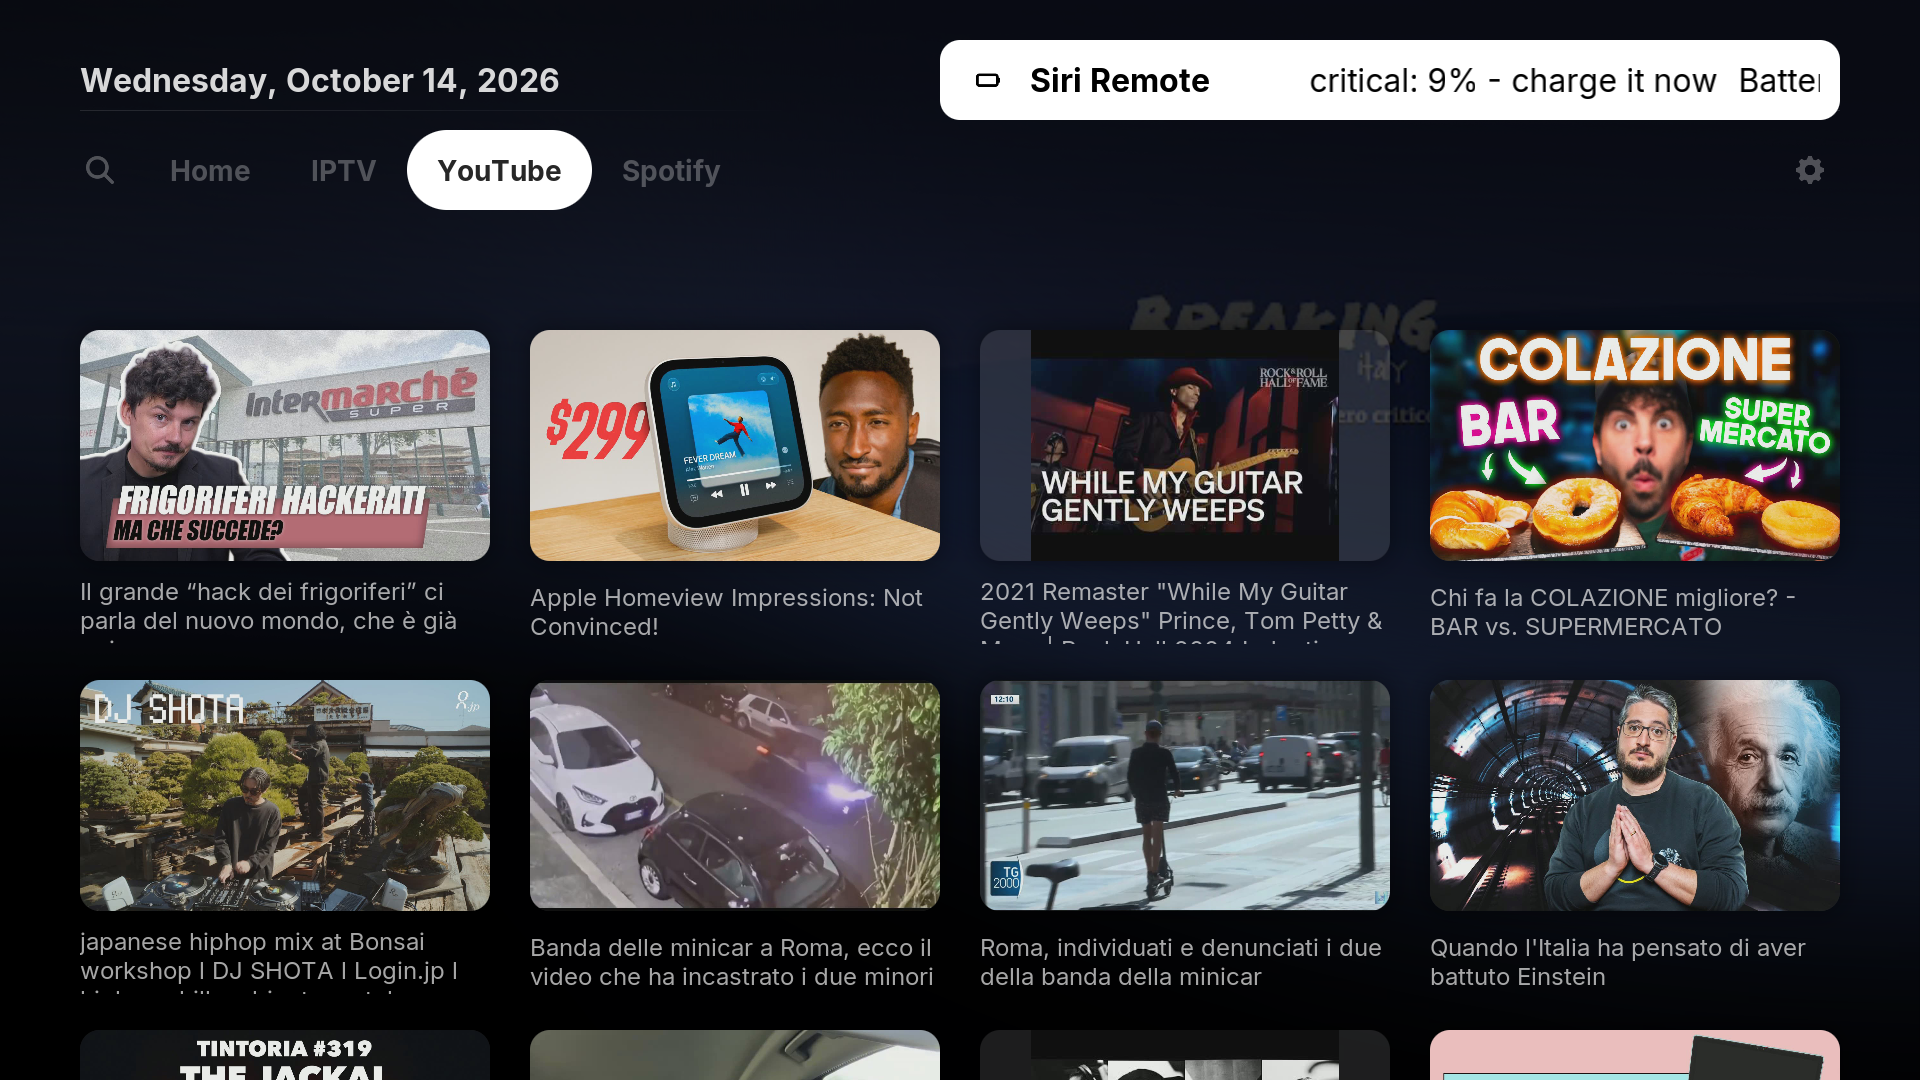
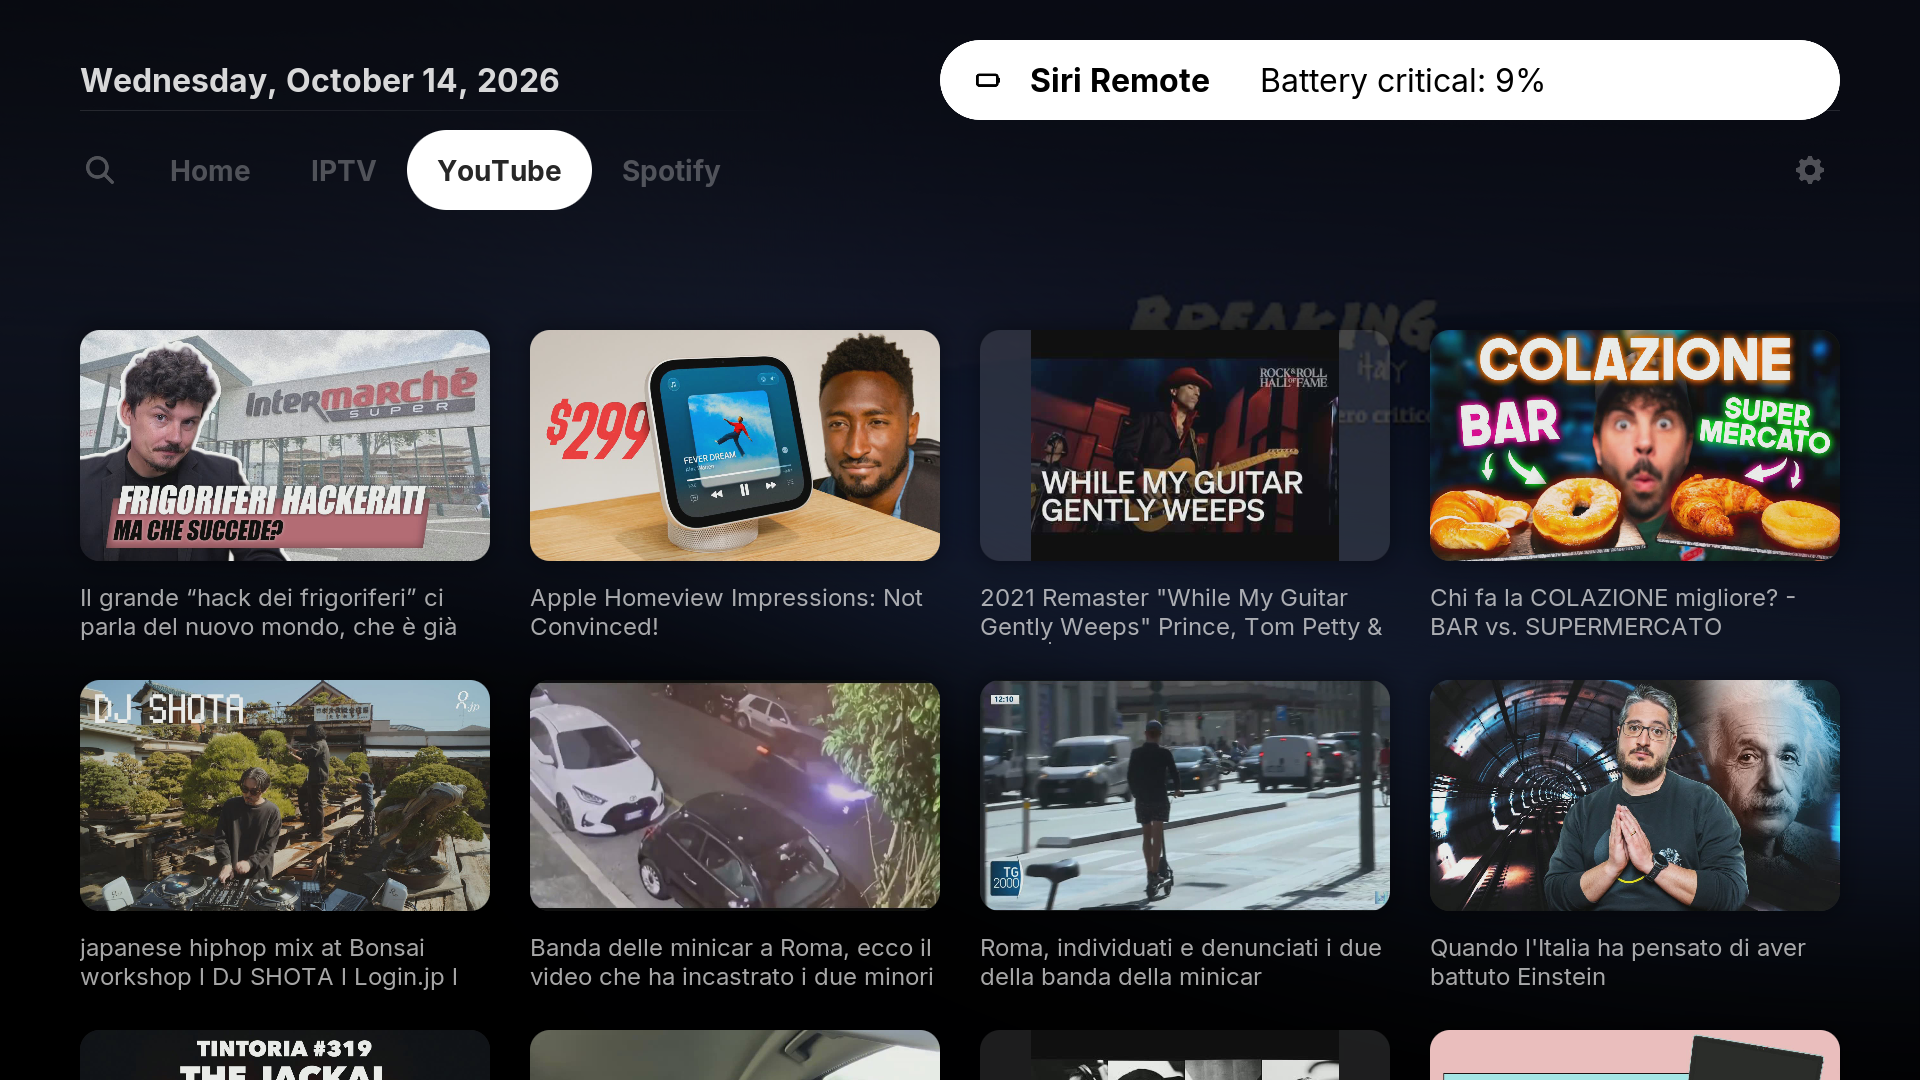
Toast: fully rounded pill; bridge: no battery warnings while the remote is charging (rising level)

diff --git a/scr/kodi_siri_bridge.py b/scr/kodi_siri_bridge.py
@@ -108,6 +108,7 @@ BATTERY_DEV = _find_device_path()
 BATTERY_INTERVAL = 120
 BATTERY_LOW = 20
 BATTERY_CRITICAL = 10
+CHARGING_HOLD = 900                             # seconds a rising level counts as "charging"
 CRITICAL_REPEAT = 1800                          # re-warn this often while critical
 BATTERY_FILE = "/var/lib/kodi-siri-bridge/battery"   # last known level (survives restarts)
 MODE_INTERVAL = 1.0     # how often to re-check what's on screen
@@ -450,10 +451,19 @@ def update_battery(bstate):
     if fresh is None:
         return                                     # only warn on a live reading
     now = time.monotonic()
+    # BlueZ exposes no charging flag, so infer it: a rising level means the
+    # remote is on the charger -> no warnings until it has been falling a while.
+    prev = bstate.get("prev")
+    bstate["prev"] = fresh
+    if prev is not None and fresh > prev:
+        bstate["charging_until"] = now + CHARGING_HOLD
+    if now < bstate.get("charging_until", 0):
+        bstate["warned"] = False
+        return
     if fresh <= BATTERY_CRITICAL:
         if now - bstate.get("critical_at", -CRITICAL_REPEAT) >= CRITICAL_REPEAT:
             bstate["critical_at"] = now
-            notify("Siri Remote", f"Battery critical: {fresh}% - charge it now",
+            notify("Siri Remote", f"Battery critical: {fresh}%",
                    "battery-empty.png", seconds=12)
         bstate["warned"] = True
     elif fresh <= BATTERY_LOW:
